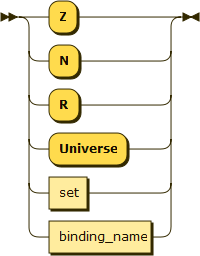
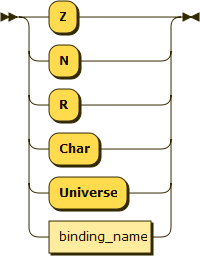
Adding support to char on types

Changed region(s): [[0.24, 0.6875, 0.66, 0.8438], [0.3, 0.5, 0.66, 0.6562]]

diff --git a/EBNF.md b/EBNF.md
@@ -390,7 +390,7 @@ letter ::= 'a'
 
 ###### other\_symbol
 ```EBNF
-ther_symbol ::= '+'
+other_symbol ::= '+'
                | '-'
                | '*'
                | '/'
